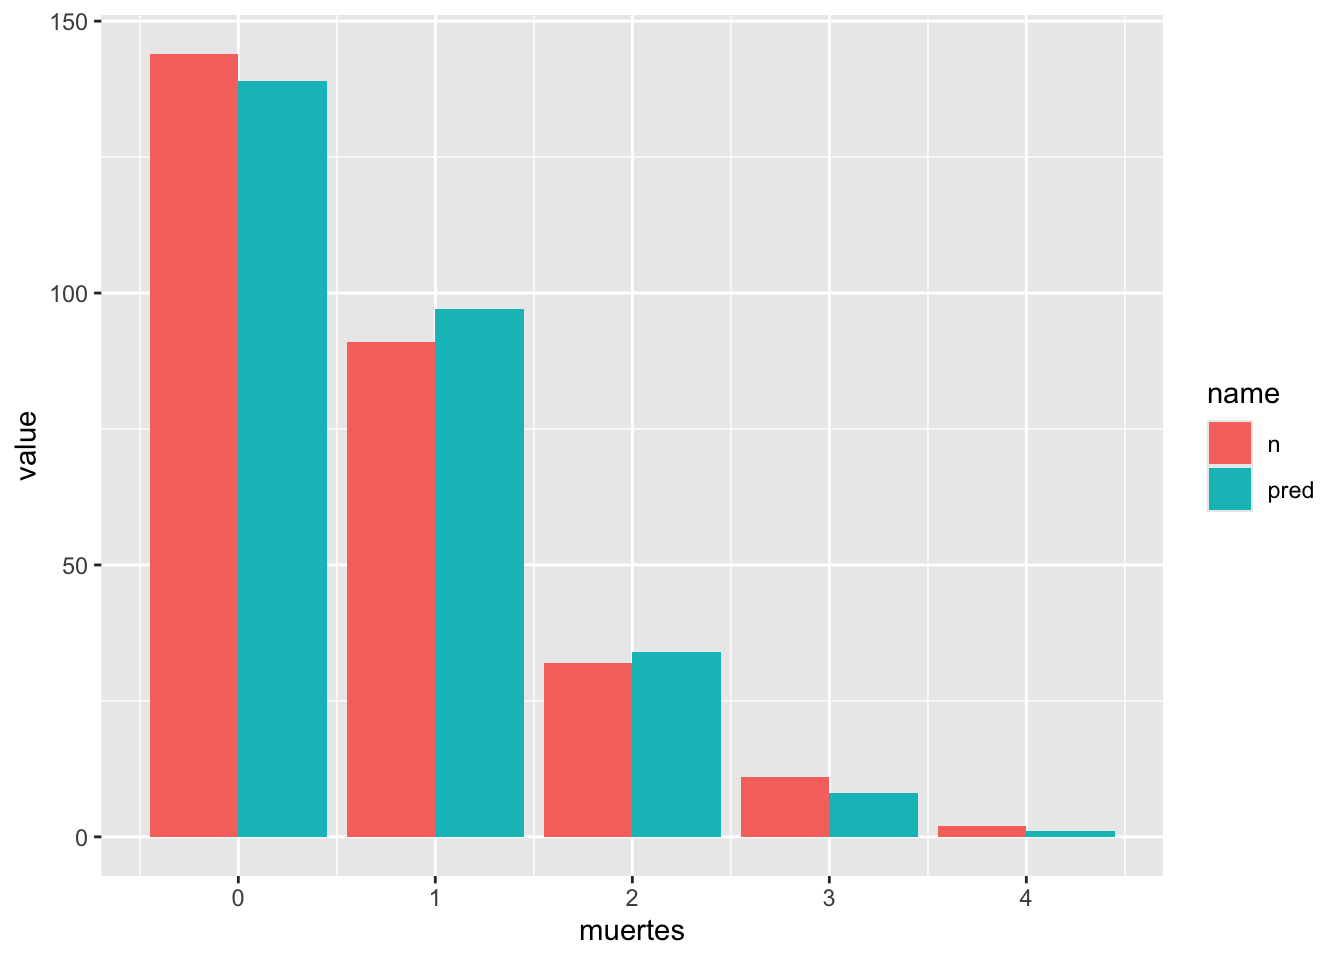
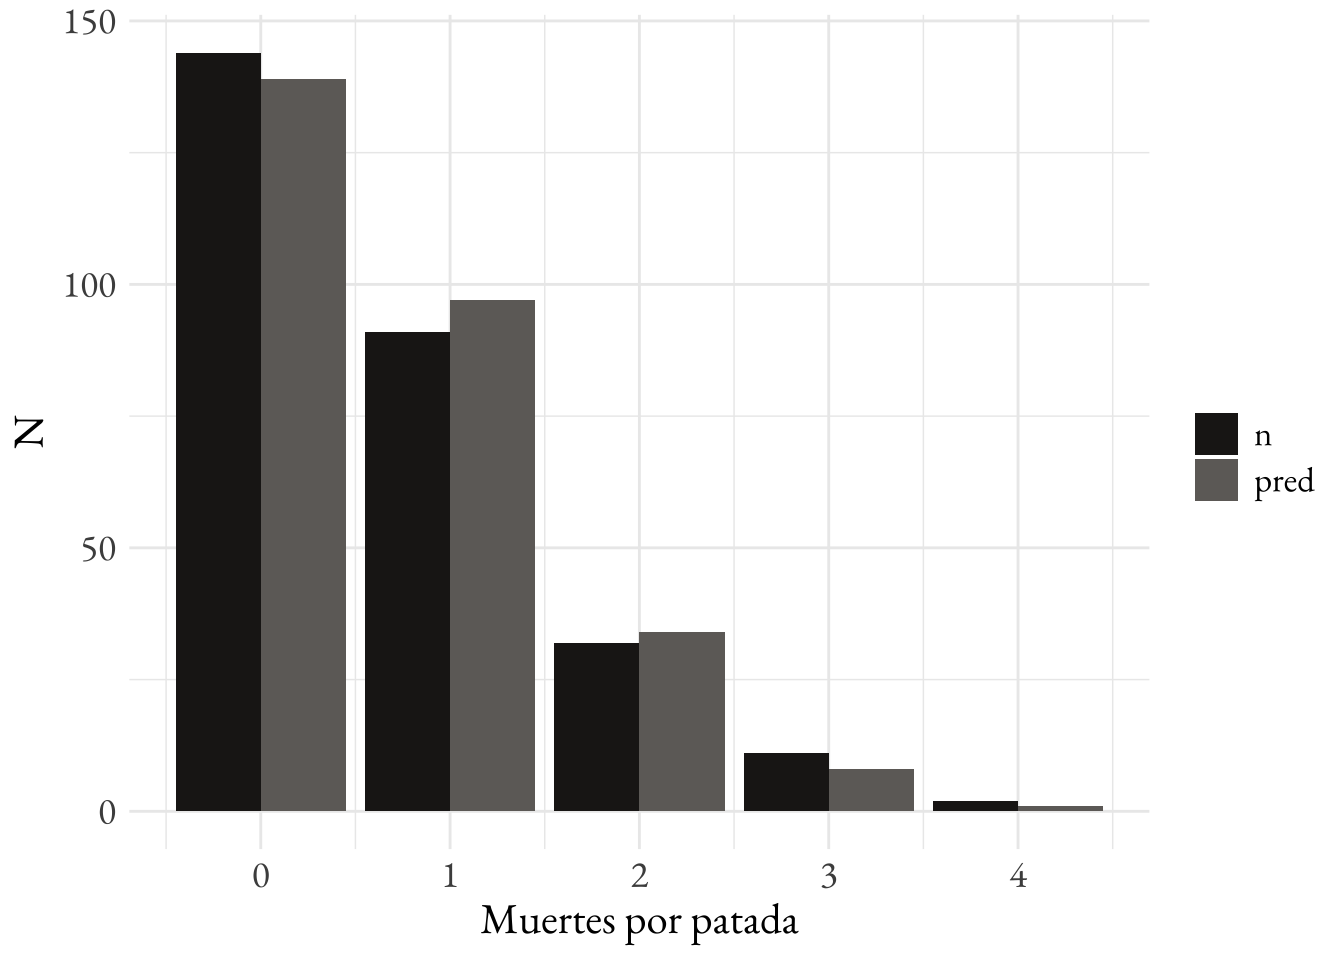
Avance

diff --git a/content/posts/2026-01-02-horse-kick-data/index.html b/content/posts/2026-01-02-horse-kick-data/index.html
@@ -9,8 +9,154 @@ images: []
 sidebar_image: "Ladislaus_Bortkiewicz.jpg"
 sidebar_caption: "Ladislaus von Bortkeiwicz"
 draft: false
+header-includes:
+  - |
+    <style>
+      @import url("https://fonts.googleapis.com/css2?family=EB+Garamond:ital,wght@0,400;0,500;0,600;1,400&family=IBM+Plex+Sans:wght@400;600;700&display=swap");
+      :root {
+        --title-font: "IBM Plex Sans", sans-serif;
+        --body-font: "EB Garamond", serif;
+      }
+      body, p, li, blockquote, .post-content, #container, #container main {
+        font-family: var(--body-font) !important;
+      }
+      body {
+        font-size: 1.5rem;
+      }
+      #container main article,
+      #container main article p,
+      #container main article li {
+        font-size: 1.5rem;
+      }
+      a {
+        color: #2F3E4E;
+        text-decoration: none;
+      }
+      table {
+        background: #F1EFEA;
+        border: 1px solid #CFCFCF;
+        color: inherit;
+      }
+      table th,
+      table td {
+        border-color: #CFCFCF;
+      }
+      h1, h2, h3, h4, h5, h6, .post-title, .entry-title, #container header h1 {
+        font-family: var(--title-font) !important;
+      }
+      #container header h1,
+      h1,
+      .post-title,
+      .entry-title {
+        font-size: 2rem;
+        text-align: center;
+      }
+      #container nav ul li a {
+        font-size: 1.05rem;
+      }
+      #container header h1 {
+        text-align: left;
+      }
+      .post-title + p,
+      .entry-title + p,
+      #container main h1 + p {
+        margin-top: 0.2rem;
+      }
+      #container main article > h1 {
+        margin-bottom: 0.2rem;
+      }
+      #container main article aside {
+        margin: 0;
+      }
+      #container main article > p:first-of-type {
+        margin-top: 0;
+      }
+      .post-sidebar .sidebar-figure {
+        margin: 0;
+      }
+      #container main article > pre {
+        background-color: transparent;
+        box-shadow: none;
+      }
+      #container main article pre.r,
+      #container main article .highlight pre {
+        background-color: #f1f1f1;
+      }
+    </style>
 ---
 
+<style>
+  @import url("https://fonts.googleapis.com/css2?family=EB+Garamond:ital,wght@0,400;0,500;0,600;1,400&family=IBM+Plex+Sans:wght@400;600;700&display=swap");
+  :root {
+    --title-font: "IBM Plex Sans", sans-serif;
+    --body-font: "EB Garamond", serif;
+  }
+  body, p, li, blockquote, .post-content, #container, #container main {
+    font-family: var(--body-font) !important;
+  }
+  body {
+    font-size: 1.5rem;
+  }
+  #container main article,
+  #container main article p,
+  #container main article li {
+    font-size: 1.5rem;
+  }
+  a {
+    color: #2F3E4E;
+    text-decoration: none;
+  }
+  table {
+    background: #F1EFEA;
+    border: 1px solid #CFCFCF;
+    color: inherit;
+  }
+  table th,
+  table td {
+    border-color: #CFCFCF;
+  }
+  h1, h2, h3, h4, h5, h6, .post-title, .entry-title, #container header h1 {
+    font-family: var(--title-font) !important;
+  }
+  #container header h1,
+  h1,
+  .post-title,
+  .entry-title {
+    font-size: 2rem;
+    text-align: center;
+  }
+  #container nav ul li a {
+    font-size: 1.05rem;
+  }
+  #container header h1 {
+    text-align: left;
+  }
+  .post-title + p,
+  .entry-title + p,
+  #container main h1 + p {
+    margin-top: 0.2rem;
+  }
+  #container main article > h1 {
+    margin-bottom: 0.2rem;
+  }
+  #container main article aside {
+    margin: 0;
+  }
+  #container main article > p:first-of-type {
+    margin-top: 0;
+  }
+  .post-sidebar .sidebar-figure {
+    margin: 0;
+  }
+  #container main article > pre {
+    background-color: transparent;
+    box-shadow: none;
+  }
+  #container main article pre.r,
+  #container main article .highlight pre {
+    background-color: #f1f1f1;
+  }
+</style>
 
 
 <p>En la época de la guerra Franco-Prusiana, los prusianos llevaban registros detallados de la muerte de los soldados. Cada vez que un caballo mataba a a un soldado de una patada, quedaba registrado:</p>
@@ -25,13 +171,13 @@ draft: false
 ## 4  1875 III           4     0     0     7     1         0
 ## 5  1875 IV            4     0     0     7     0         0
 ## 6  1875 V             4     0     0    11     0         0</code></pre>
-<p>Cada fila corresponde a un cuerpo-año, y las columnas muestran cuantos muertos hubo por cada causa (también hay datos de ahogamientos y caídas). El dataset registra 196 muertes entre 1875 y 1894.</p>
+<p>Cada fila corresponde a un cuerpo-año, y las columnas muestran cuantos muertos hubo por cada causa (también hay datos de ahogamientos y caídas). Hay datos de XX cuerpos para los 20 años, por lo que el data frame tiene XX filas y 196 muertes entre 1875 y 1894.</p>
 <p>Si contamos las muertes por cada cuerpo-año, vemos que las muertes por patada de caballo son raras: en cada cuerpo de caballería, lo más probable es que en un año determinado no haya soldados muertos:</p>
 <p><img src="{{< blogdown/postref >}}index_files/figure-html/unnamed-chunk-3-1.png" width="672" /></p>
 <p>Ladislaus von Bortkeiwicz descubrió que la distribución Poisson se ajusta bastante a los datos. Esta distribución sirve cuando los eventos suceden en forma independiente, los eventos son raros y la tasa de ocurrencia del evento es constante.</p>
 <p><span class="math display">\[ X \sim \operatorname{Poisson}(\lambda) \]</span>
 <span class="math display">\[ P(X=x) = \frac{e^{-\lambda}  \lambda^x}{x!} \]</span>
-Para mostrar eso hizo dos cosas: 1) calculó el valor de <span class="math inline">\(\lambda\)</span> en base a los datos obervados, y 2) comparó la distribución observada con la teórica.</p>
+Para mostrar eso hizo dos cosas: 1) calculó el valor de <span class="math inline">\(\lambda\)</span> en base a los datos obervados, y 2) comparó la distribución observada con la teórica. El valor de lambda es la tasa promedio de muertes. La comparación la hizo “a ojo”:</p>
 <p>Hacemos lo mismo en R:</p>
 <pre class="r"><code>lambda &lt;- .7
 n &lt;- sum(cuentas$n)
@@ -41,5 +187,8 @@ cuentas &lt;- cuentas |&gt;
 
 cuentas |&gt; 
   ggplot(aes(muertes, value, fill=name)) + 
-  geom_col(position=&quot;dodge&quot;)</code></pre>
+  geom_col(position=&quot;dodge&quot;) +
+  scale_fill_manual(&quot;&quot;,
+    values = c(&quot;#1E1C1A&quot;, &quot;#6E6B68&quot;)) +
+  labs(x=&quot;Muertes por patada&quot;, y=&quot;N&quot;)</code></pre>
 <p><img src="{{< blogdown/postref >}}index_files/figure-html/unnamed-chunk-4-1.png" width="672" /></p>

diff --git a/content/posts/2026-01-13-llm-patterns/index.md b/content/posts/2026-01-13-llm-patterns/index.md
@@ -12,9 +12,12 @@ Los modelos de lenguaje son la tecnología que estábamos esperando. No sabemos 
 
 ## El Minion 
 
-Algunos les dicen por favor y gracias, pero solo los usan para evitar tareas ingratas. Claude Code está prendiendo fuego X estos días, encaja perfecto en este patrón: hace el trabajo duro, repetitivo y poco glamoroso sin quejarse. 
+Algunos les dicen por favor y gracias, pero solo los usan para evitar tareas ingratas. Claude Code está prendiendo fuego X estos días, encaja perfecto en este patrón: hace el trabajo duro, repetitivo y poco glamoroso sin quejarse.  Yo pasé de copiar y pegar código de ChatGPT a Codex en Visual Studio y la aceleración es brutal. 
+En el pasado hubo varios intentos de crear tecnologías que permitieran programar con lenguaje natural, pero todas fracasaron. Todas las tecnologías que conozco para darle instrucciones a la computadora se basan en abstracciones a niveles mucho más bajos que el lenguaje natural. 
 
-Yo pasé de copiar y pegar código de ChatGPT a Codex en Visual Studio y la aceleración es brutal. De a poco me vuelven ideas de proyectos que se me fueron ocurriendo con los años pero nunca programé porque para cuando tenía configurado el ambiente de desarrollo bajado las librerías que necesitaba habían pasado 2 horas y el fuego estaba apagado. Ahora todas esas ideas parecen ser viables.
+Estas abstracciones nos llevaron lejos. Algunas son bastante interesantes, otras parecen instrumentos de tortura _(i'm looking at you css)_, pero todas implicaban un esfuerzo considerable de aprendizaje antes usarlas productivamente. El plan era que además de aprender a leer y escribir en la escuela nos iban a enseñar a programar y ese iba a ser el futuro. Parece que esta vez es diferente. Está claro que los modelos pueden hacer software útil sin que el usuario toque una sola línea de código. Java, javascript, Python, HTML, CSS parecen haber seguido el camino de Assembler y C.
+
+De a poco me vuelven ideas de proyectos que se me fueron ocurriendo con los años pero nunca programé porque para cuando tenía configurado el ambiente de desarrollo bajado las librerías que necesitaba habían pasado 2 horas y el fuego estaba apagado. Ahora todas esas ideas parecen ser viables.
  
 
 <!--  
